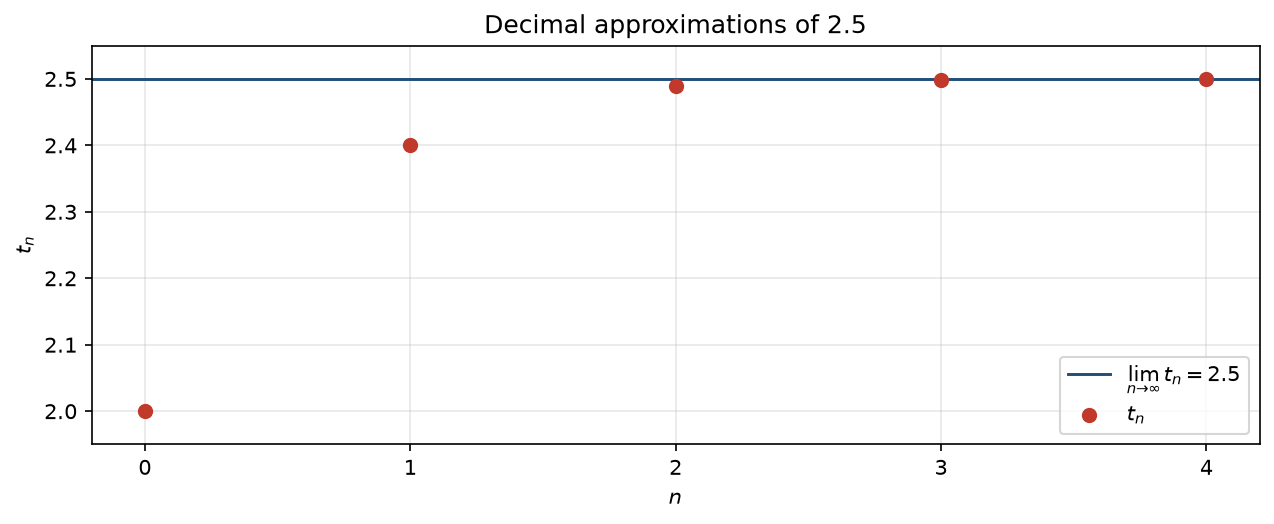
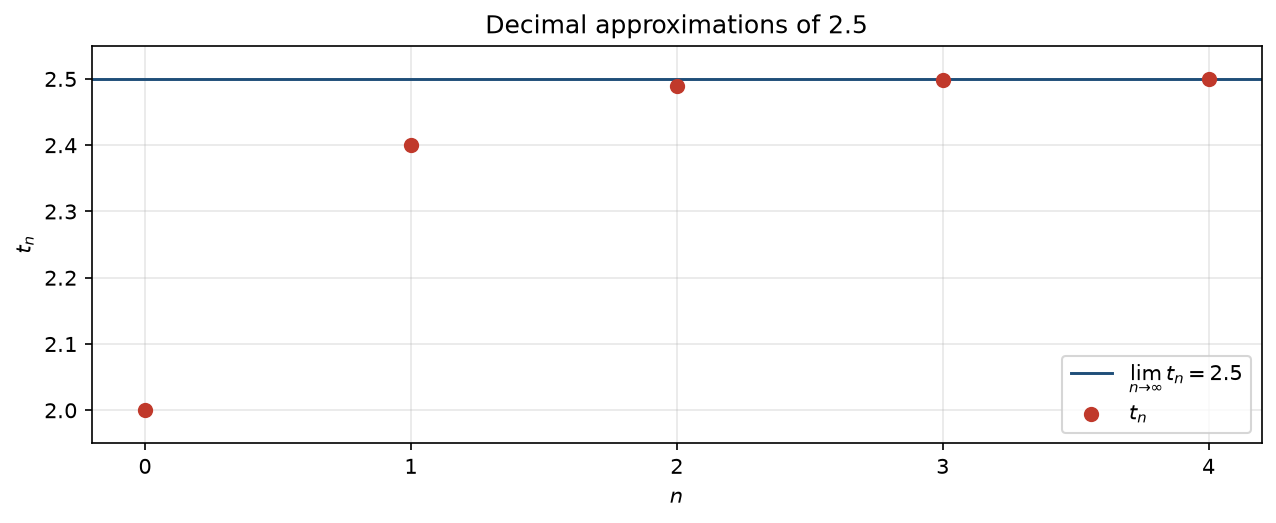
Built site for gh-pages

diff --git a/07-sequences-limit.html b/07-sequences-limit.html
@@ -351,12 +351,13 @@ document.addEventListener("DOMContentLoaded", function () {
   // Build n -> value from a formula in n (whitelisted: digits, n, + - * / ^ ( ) . )
   function makeFormula(s) {
     s = String(s || "").trim();
-    if (!s || !/^[0-9n+\-*/^().\s]+$/.test(s)) return null;
-    s = s.replace(/(\d)\s*([n(])/g, "$1*$2")     // 2n, 2(  -> 2*n, 2*(
-         .replace(/([n)])\s*([n(])/g, "$1*$2")   // )n, )(, n(  -> insert *
+    if (!s || !/^[0-9n+\-*/^!().\s]+$/.test(s)) return null;
+    s = s.replace(/(\d)\s*([n(])/g, "$1*$2")             // 2n, 2(  -> 2*n, 2*(
+         .replace(/([n)])\s*([n(])/g, "$1*$2")           // )n, )(, n(  -> insert *
+         .replace(/(\([^()]*\)|\d+|n)!/g, "fact($1)")    // n!, 5!, (n+1)!  -> fact(...)
          .replace(/\^/g, "**");
     try {
-      var f = Function("n", '"use strict"; return (' + s + ");");
+      var f = Function("n", '"use strict"; var fact=function(k){k=Math.round(k);var r=1;for(var i=2;i<=k;i++)r*=i;return r;}; return (' + s + ");");
       var t = f(1);
       return (typeof t === "number" && isFinite(t)) ? f : null;
     } catch (e) { return null; }
@@ -833,7 +834,7 @@ window.Quarto = {
 </section>
 <section id="תרגילים" class="level3 unnumbered">
 <h3 class="unnumbered anchored" data-anchor-id="תרגילים">תרגילים</h3>
-<p>בתרגילים המקוונים אפשר להקליד תשובה וללחוץ ״בדיקה״; בגרסה המודפסת הפתרונות מופיעים בהמשך. לשברים השתמשו ב-<code>/</code> (למשל <code>1/3</code>), ולחזקות ב-<code>^</code> (למשל <code>2^5</code>).</p>
+<p>בתרגילים המקוונים אפשר להקליד תשובה וללחוץ ״בדיקה״; בגרסה המודפסת הפתרונות מופיעים בהמשך. לשברים השתמשו ב-<code>/</code> (למשל <code>1/3</code>), לחזקות ב-<code>^</code> (למשל <code>2^5</code>), ולעצרת ב-<code>!</code> (למשל <code>n!</code>).</p>
 <p><strong>תרגיל 1.</strong> רשמו את חמשת האיברים הראשונים \(a_1,\dots,a_5\) של כל סדרה (מופרדים בפסיקים):</p>
 <div class="seq-quiz" data-answer="1/2, 4/9, 9/28, 16/65, 25/126"><span class="seq-label">(א) \(a_n = \dfrac{n^2}{n^3+1}\)</span><input class="seq-input" type="text" placeholder="לדוגמה: 1, 2/3, -4, ..."><button class="seq-check">בדיקה</button><span class="seq-feedback"></span></div>
 <div class="seq-quiz" data-answer="1/3, 8/9, 1, 64/81, 125/243"><span class="seq-label">(ב) \(a_n = \dfrac{n^3}{3^n}\)</span><input class="seq-input" type="text" placeholder="לדוגמה: 1, 2/3, -4, ..."><button class="seq-check">בדיקה</button><span class="seq-feedback"></span></div>
@@ -846,6 +847,10 @@ window.Quarto = {
 <div class="seq-quiz" data-answer="1, 7, 17, 31, 49"><span class="seq-label">(א) \(a_1 = 1,\ a_n = a_{n-1} + 4n - 2\)</span><input class="seq-input" type="text" placeholder="לדוגמה: 1, 2/3, -4, ..."><button class="seq-check">בדיקה</button><span class="seq-feedback"></span></div>
 <div class="seq-quiz" data-answer="1, 2, 4, 8, 16"><span class="seq-label">(ב) \(a_1 = 1,\ a_2 = 2,\ a_n = 2a_{n-2} + a_{n-1}\)</span><input class="seq-input" type="text" placeholder="לדוגמה: 1, 2/3, -4, ..."><button class="seq-check">בדיקה</button><span class="seq-feedback"></span></div>
 <div class="seq-quiz" data-answer="1, 3, 15, 105, 945"><span class="seq-label">(ג) \(a_1 = 1,\ a_n = (2n-1)\,a_{n-1}\)</span><input class="seq-input" type="text" placeholder="לדוגמה: 1, 2/3, -4, ..."><button class="seq-check">בדיקה</button><span class="seq-feedback"></span></div>
+<p><strong>תרגיל 4.</strong> נתונה סדרה ברקורסיה; מצאו לה נוסחה סגורה \(a_n\):</p>
+<div class="formula-quiz" data-answer="1, 3, 7, 15, 31, 63"><span class="seq-label">(א) \(a_1 = 1,\ a_{n+1} = a_n + 2^n\)</span><input class="seq-input" type="text" placeholder="3*n^2+1 :למשל"><button class="seq-check">בדיקה</button><span class="seq-feedback"></span></div>
+<div class="formula-quiz" data-answer="0, 3, 8, 15, 24, 35"><span class="seq-label">(ב) \(a_1 = 0,\ a_{n+1} = a_n + 2n + 1\)</span><input class="seq-input" type="text" placeholder="3*n^2+1 :למשל"><button class="seq-check">בדיקה</button><span class="seq-feedback"></span></div>
+<div class="formula-quiz" data-answer="2, 8, 48, 384, 3840, 46080"><span class="seq-label">(ג) \(a_1 = 2,\ a_n = 2n\,a_{n-1}\) — רמז: אפשר להיעזר בעצרת \(n!\)</span><input class="seq-input" type="text" placeholder="3*n^2+1 :למשל"><button class="seq-check">בדיקה</button><span class="seq-feedback"></span></div>
 </section>
 </section>
 <section id="גבול-של-סדרה" class="level2" data-number="7.2">